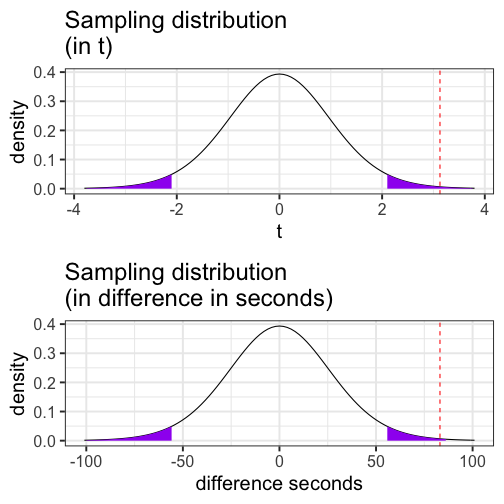
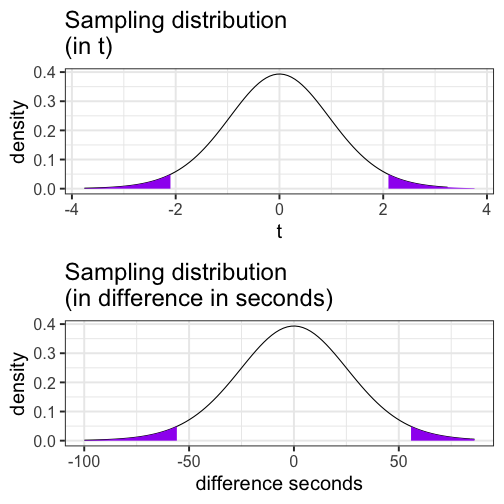
fix errors in lecture 15

diff --git a/lectures/15-t_one_paired.html b/lectures/15-t_one_paired.html
@@ -93,7 +93,10 @@ We've already been covering one-sample *t*-tests, but let's formally walk throug
 
 ### A brief example
 
-Using the same Census at School data, we find that Oregon students who participated in a memory game ( `\(N = 227\)` ) completed the game in an average time of 49.1 seconds `\((s = 13.4)\)`. We know that the average US student completed the game in 45.04 seconds. How do our students compare?
+
+
+
+Using the same Census at School data, we find that Oregon students who participated in a memory game ( `\(N = 197\)` ) completed the game in an average time of `\(49.13\)` seconds `\((s = 13.42)\)`. We know that the average US student completed the game in 45.04 seconds. How do our students compare?
 
 --
 
@@ -106,12 +109,10 @@ Using the same Census at School data, we find that Oregon students who participa
 
 ???
 
-
-
-`\(sem = 0.8894\)`
-`\(t = 4.5537\)`
-`\(p1 = 0.0000043\)`
-`\(p = 0.0000086\)`
+`\(sem = 0.9562\)`
+`\(t = 4.2652\)`
+`\(p1 = 0.0000155\)`
+`\(p = 0.000031\)`
 
 
 ---
@@ -186,6 +187,11 @@ Draw attention here to:
 
 ---
 
+The difference in means was 4.08. Is that big?
+
+&lt;img src="images/four.jpeg" width="70%" /&gt;
+
+---
 # Cohen's D
 
 Cohen suggested one of the most common effect size estimates—the standardized mean difference—useful when comparing a group mean to a population mean or two group means to each other. 
@@ -217,7 +223,7 @@ Cohen (1988) suggests the following guidelines for interpreting the size of d:
 
 Another useful metric is the overlap between the two distributions -- the smaller the overlap, the farther apart the distributions
 
-![](15-t_one_paired_files/figure-html/unnamed-chunk-5-1.png)&lt;!-- --&gt;
+![](15-t_one_paired_files/figure-html/unnamed-chunk-6-1.png)&lt;!-- --&gt;
 
 
 ---
@@ -468,7 +474,7 @@ To calculate the standard error of difference scores, we simply divide the stand
 `$$\frac{\hat{\sigma}_\Delta}{\sqrt{N}} = 26.58$$`
 ---
 
-![](15-t_one_paired_files/figure-html/unnamed-chunk-12-1.png)&lt;!-- --&gt;
+![](15-t_one_paired_files/figure-html/unnamed-chunk-13-1.png)&lt;!-- --&gt;
 
 
 ---
@@ -486,7 +492,7 @@ In this case, N refers to the number of pairs, not the total sample size.
 
 ---
 
-![](15-t_one_paired_files/figure-html/unnamed-chunk-13-1.png)&lt;!-- --&gt;
+![](15-t_one_paired_files/figure-html/unnamed-chunk-14-1.png)&lt;!-- --&gt;
 
 
 ---
@@ -550,7 +556,7 @@ ggpubr::ggpaired(data = gulls, cond1 = "At", cond2 = "Away", line.color = "grey"
                  title = "Some gulls approach food more quickly when \npeople look away from them")
 ```
 
-![](15-t_one_paired_files/figure-html/unnamed-chunk-16-1.png)&lt;!-- --&gt;
+![](15-t_one_paired_files/figure-html/unnamed-chunk-17-1.png)&lt;!-- --&gt;
 
 ---
 
@@ -595,7 +601,7 @@ It turns out that the mean difference score is the same as the difference in mea
 
 But the calculation of the standard deviation becomes a little more complicated:
 
-`$$\large \hat{\sigma}_\Delta = \sqrt{\hat{\sigma}^2_{M_1} + \hat{\sigma}^2_{M_2} - 2r(\hat{\sigma}_{M_1}\hat{\sigma}_{M_2})}$$`
+`$$\large \hat{\sigma}_\Delta = \sqrt{\hat{\sigma}^2_{X_1} + \hat{\sigma}^2_{X_2} - 2r(\hat{\sigma}_{X_1}\hat{\sigma}_{X_2})}$$`
 
 
 ```r
@@ -631,7 +637,7 @@ pt(t, df = 193, lower.tail = F)*2
 ## [1] 0.1510719
 ```
 
-![](15-t_one_paired_files/figure-html/unnamed-chunk-21-1.png)&lt;!-- --&gt;
+![](15-t_one_paired_files/figure-html/unnamed-chunk-22-1.png)&lt;!-- --&gt;
 
 
 ???
@@ -645,7 +651,7 @@ What else can this equation tell us?
 
 ---
 
-`$$\large \hat{\sigma}_\Delta = \sqrt{\hat{\sigma}^2_{M_1} + \hat{\sigma}^2_{M_2} - 2r(\hat{\sigma}_{M_1}\hat{\sigma}_{M_2})}$$`
+`$$\large \hat{\sigma}_\Delta = \sqrt{\hat{\sigma}^2_{X_1} + \hat{\sigma}^2_{X_2} - 2r(\hat{\sigma}_{X_1}\hat{\sigma}_{X_2})}$$`
 
 What happens if `\(\large r\)` is large and positive?
 
